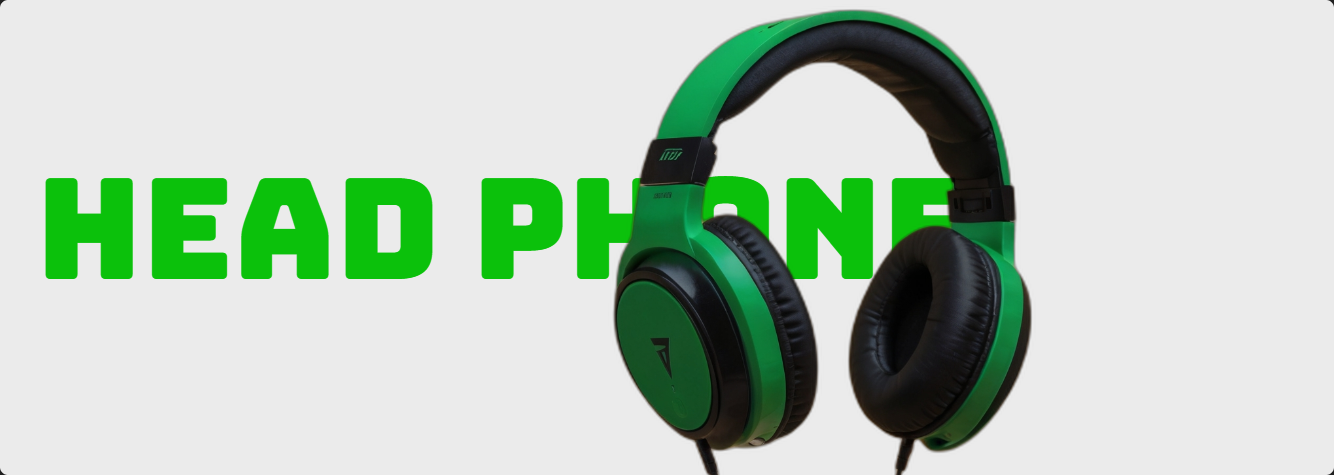
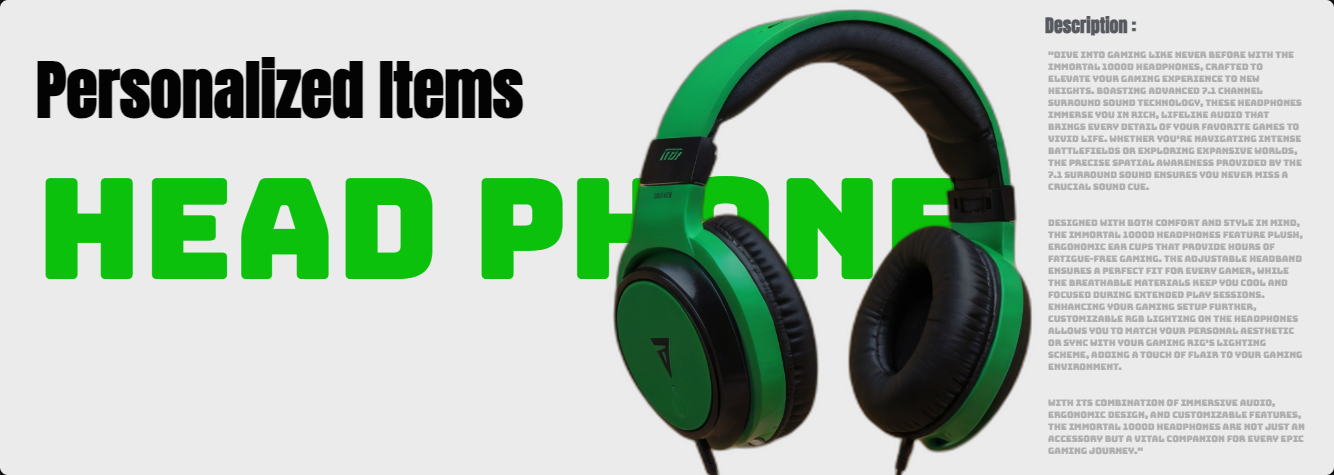
hero section

diff --git a/src/components/Hero/Hero.jsx b/src/components/Hero/Hero.jsx
@@ -2,60 +2,65 @@ import React from "react";
 import heroSection from "../../assets/Hero.png";
 import { Button } from "@mui/material";
 import "./style.css";
-import "../../assets/Green headphone herosection.png"
+import greenHeadphone from "../../assets/Green headphone.png";
+import Atropos from "atropos/react";
 
 export default function Hero() {
   return (
     <div>
-
-      <div>
-        <img src="../" alt="" />
+      <div className="hero-sec">
+        {/* <Atropos className="my-atropos" shadow={false}>
+          <div>
+            <img className="greenhead" src={greenHeadphone} alt="" />
+          </div>
+        </Atropos> */}
+        <Atropos className="my-atropos" shadow={false}>
         <img className="Hero-img" src={heroSection} alt="Hero Section" />
+        </Atropos>
         <div className="Hero-items">
-        <div>
-          <p>Personalized Items</p>
-          <Button
-            className="checkoutButton"
-            size="large"
-            type="button"
-            variant="contained"
-            color="success"
-          >
-            Shop wireless headphone
-          </Button>
-        </div>
-        <div className="Description-section">
-          <p className="Description">Description :</p>
-          <p className="Description-p">
-            "Dive into gaming like never before with the Immortal 1000D
-            headphones, crafted to elevate your gaming experience to new
-            heights. Boasting advanced 7.1 Channel Surround Sound technology,
-            these headphones immerse you in rich, lifelike audio that brings
-            every detail of your favorite games to vivid life. Whether you're
-            navigating intense battlefields or exploring expansive worlds, the
-            precise spatial awareness provided by the 7.1 surround sound ensures
-            you never miss a crucial sound cue.
-            <br />
-            <br />
-            Designed with both comfort and style in mind, the Immortal 1000D
-            headphones feature plush, ergonomic ear cups that provide hours of
-            fatigue-free gaming. The adjustable headband ensures a perfect fit
-            for every gamer, while the breathable materials keep you cool and
-            focused during extended play sessions. Enhancing your gaming setup
-            further, customizable RGB lighting on the headphones allows you to
-            match your personal aesthetic or sync with your gaming rig's
-            lighting scheme, adding a touch of flair to your gaming environment.
-            <br />
-            <br />
-            With its combination of immersive audio, ergonomic design, and
-            customizable features, the Immortal 1000D headphones are not just an
-            accessory but a vital companion for every epic gaming journey."
-          </p>
+          <div className="btn-sec">
+            {/* <p>Personalized Items</p> */}
+            <Button
+              className="shopBtn"
+              size="large"
+              type="button"
+              variant="contained"
+              color="success"
+            >
+              Shop wireless headphone
+            </Button>
+          </div>
+          {/* <div className="Description-section">
+            <p className="Description">Description :</p>
+            <p className="Description-p">
+              "Dive into gaming like never before with the Immortal 1000D
+              headphones, crafted to elevate your gaming experience to new
+              heights. Boasting advanced 7.1 Channel Surround Sound technology,
+              these headphones immerse you in rich, lifelike audio that brings
+              every detail of your favorite games to vivid life. Whether you're
+              navigating intense battlefields or exploring expansive worlds, the
+              precise spatial awareness provided by the 7.1 surround sound
+              ensures you never miss a crucial sound cue.
+              <br />
+              <br />
+              Designed with both comfort and style in mind, the Immortal 1000D
+              headphones feature plush, ergonomic ear cups that provide hours of
+              fatigue-free gaming. The adjustable headband ensures a perfect fit
+              for every gamer, while the breathable materials keep you cool and
+              focused during extended play sessions. Enhancing your gaming setup
+              further, customizable RGB lighting on the headphones allows you to
+              match your personal aesthetic or sync with your gaming rig's
+              lighting scheme, adding a touch of flair to your gaming
+              environment.
+              <br />
+              <br />
+              With its combination of immersive audio, ergonomic design, and
+              customizable features, the Immortal 1000D headphones are not just
+              an accessory but a vital companion for every epic gaming journey."
+            </p>
+          </div> */}
         </div>
       </div>
-      </div>
-
-
     </div>
   );
 }

diff --git a/src/components/Hero/style.css b/src/components/Hero/style.css
@@ -2,15 +2,23 @@ img.Hero-img {
   width: 100%;
   padding: 20px 100px;
   position: relative;
+  user-select: none;
 }
+/* .greenhead{
+  position: absolute;
+  z-index: 100;
+  top: 10px;
+  width: 741px;
+  right: 18.9%;
+} */
 .Hero-items {
   display: flex;
   justify-content: space-between;
 }
-.Description-section{
+/* .Description-section{
     position: absolute;
     z-index: 1;
-    bottom: 26.5%;
+    bottom: 26%;
     right: 7%;
 }
 .Description {
@@ -25,4 +33,17 @@ img.Hero-img {
   color: #565a60 !important;
   opacity: 0.5;
   font-size: 0.7em;
+} */
+/* .my-atropos {
+  width: 320px;
+  height: 160px;
+
+} */
+.hero-sec{
+  position: relative;
+}
+.shopBtn{
+  position: absolute !important;
+  bottom: 90px;
+  left: 10%;
 }

diff --git a/src/components/Products/Products.jsx b/src/components/Products/Products.jsx
@@ -2,7 +2,7 @@ import React from "react";
 import { Grid } from "@mui/material";
 import Product from "./Product/Product";
 import "./style.css";
-
+import Atropos from "atropos/react";
 // const products = [
 //   { id: 1, name: "SwiftClick X1", price: "$19.99" },
 //   { id: 2, name: "ProMouse 360", price: "$27.49" },
@@ -12,6 +12,7 @@ import "./style.css";
 
 export default function Products({ products, onAddToCart }) {
   return (
+    <Atropos className="my-atropos">
     <main className="content">
       <div>
       Customer Favorites !
@@ -25,5 +26,6 @@ export default function Products({ products, onAddToCart }) {
         ))}
       </Grid>
     </main>
+    </Atropos>
   );
 }

diff --git a/src/components/Products/Product/Product.jsx b/src/components/Products/Product/Product.jsx
@@ -10,17 +10,18 @@ import {
 import AddShoppingCartIcon from "@mui/icons-material/AddShoppingCart";
 import "./style.css";
 
+
 export default function index({ product, onAddToCart }) {
   // console.log(product);
   // return <div>teast</div>
 
   return (
     <Card className="root">
-      <CardMedia 
-        className="media"
-        image={product.image.url}
-        title={product.name}
-      />
+        <CardMedia
+          className="media"
+          image={product.image.url}
+          // title={product.name}
+        />
       <CardContent>
         <div className="CardContent">
           <Typography variant="p" gutterBottom>

diff --git a/src/components/Footer/style.css b/src/components/Footer/style.css
@@ -4,7 +4,7 @@
   flex-direction: column;
   justify-content: center;
   align-items: center;
-  margin: 40px 0;
+  margin: 50px 0;
   opacity: 0.6;
 }
 
